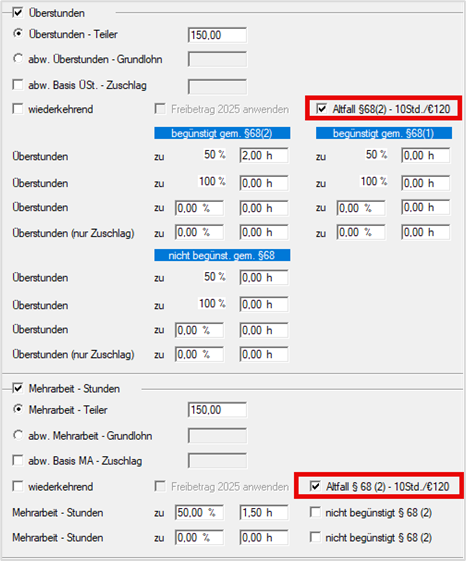
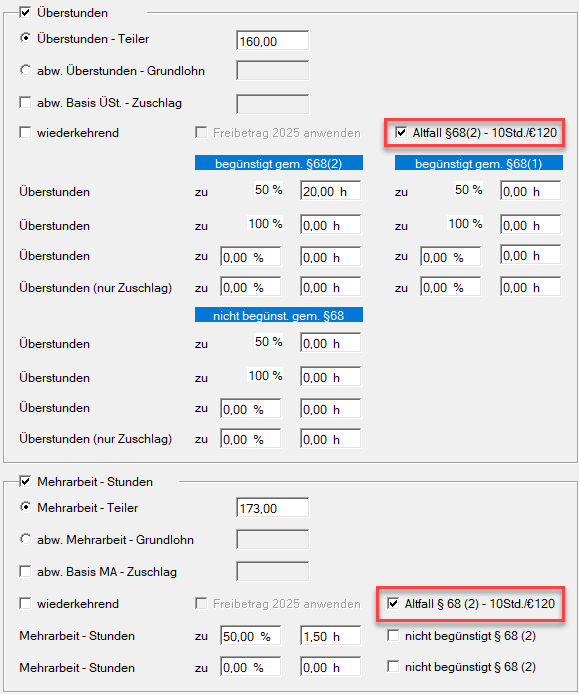
Kurzanleitung Überstunden 2026

diff --git a/docs/LOHN/Kurzanleitungen/Ueberstunden_2026.md b/docs/LOHN/Kurzanleitungen/Ueberstunden_2026.md
@@ -1,6 +1,6 @@
 # Änderung der Steuerfreigrenze für Überstunden (§ 68 Abs. 2 EStG) ab 2026
 
-Für das Kalenderjahr 2026 wurde die Steuerbegünstigung für Überstunden gemäß § 68 Abs. 2 EStG angepasst. Die neuen gesetzlichen Regelungen werden ab Programmversion 2.26.2 berücksichtigt.
+Für das Kalenderjahr 2026 wurde die Steuerbegünstigung für Überstunden gemäß § 68 Abs. 2 EStG angepasst. Die neuen gesetzlichen Regelungen werden ab Programmversion **2.26.2.0** berücksichtigt.
 
 ## Neue gesetzliche Regelung
 
@@ -12,7 +12,7 @@ Für das Kalenderjahr 2026 wurde die Steuerbegünstigung für Überstunden gemä
 
 Bis einschließlich Version 2.26.1.1 erfolgte die Berechnung noch nach der alten Regelung (max. 10 Überstunden / EUR 120,00).
 
-Nach dem Update auf Version **2.26.2.0** erfolgt keine automatische Neuberechnung bereits bestehender Abrechnungen.
+Nach dem Update auf Version **2.26.2.0** erfolgt **keine** automatische Neuberechnung bereits bestehender Abrechnungen.
 
 Abrechnungen, die noch nach der alten Regelung erstellt wurden, sind mit der Option *Altfall § 68(2) – 10 Std./€ 120* gekennzeichnet.
 
@@ -27,15 +27,16 @@ Abrechnungen, die noch nach der alten Regelung erstellt wurden, sind mit der Opt
 
 **Beispiel**
 
-- Grundlohn: € 5.000,00
+- Grundlohn: EUR 5.000,00
 - Überstundenteiler: 160
 - 20 Überstunden mit 50 % Zuschlag
 - Vor Update: Steuerfreier Betrag auf EUR 120,00 begrenzt
 
-
+![Image](img/image12.png)
 
 Im Zuge der Aufrollung wird die Option *Altfall § 68(2) – 10 Std./€ 120* automatisch entfernt und der Maximalbetrag von EUR 170,00 ausgeschöpft. Dadurch reduziert sich die Lohnsteuer, was zu einer höheren Aufrolldifferenz zugunsten des Dienstnehmers führt.
 
-Alle neu angelegten Abrechnungen ab Version 2.26.2 werden automatisch korrekt nach der neuen Regelung erstellt.
+![Image](img/image13.png)
 
-Die Altfall-Option wird nicht mehr gesetzt, unabhängig davon, ob es sich um eine Neuanlage oder eine laufende Abrechnung handelt.
+!!! warning "Hinweis"
+    Alle neu angelegten Abrechnungen ab Version 2.26.2 werden automatisch korrekt nach der neuen Regelung erstellt. Die Altfall-Option wird nicht mehr gesetzt, unabhängig davon, ob es sich um eine Neuanlage oder eine laufende Abrechnung handelt.
